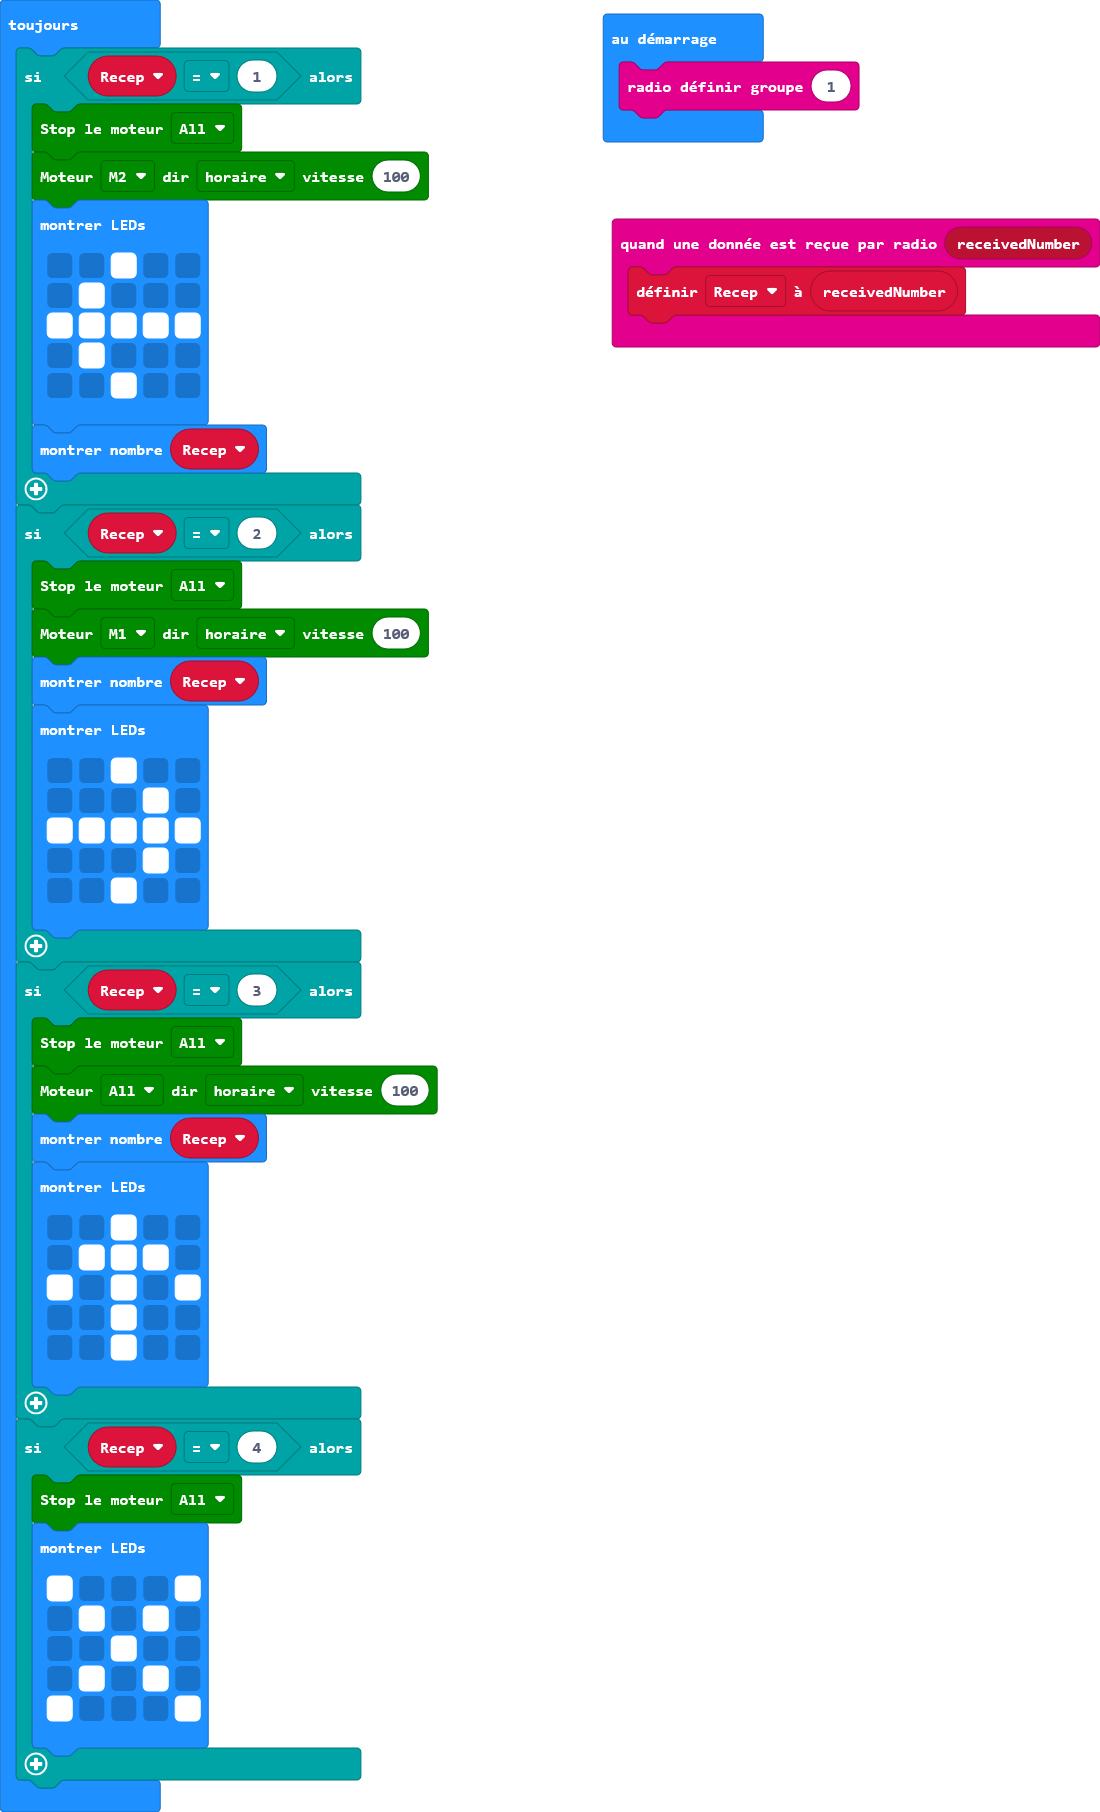
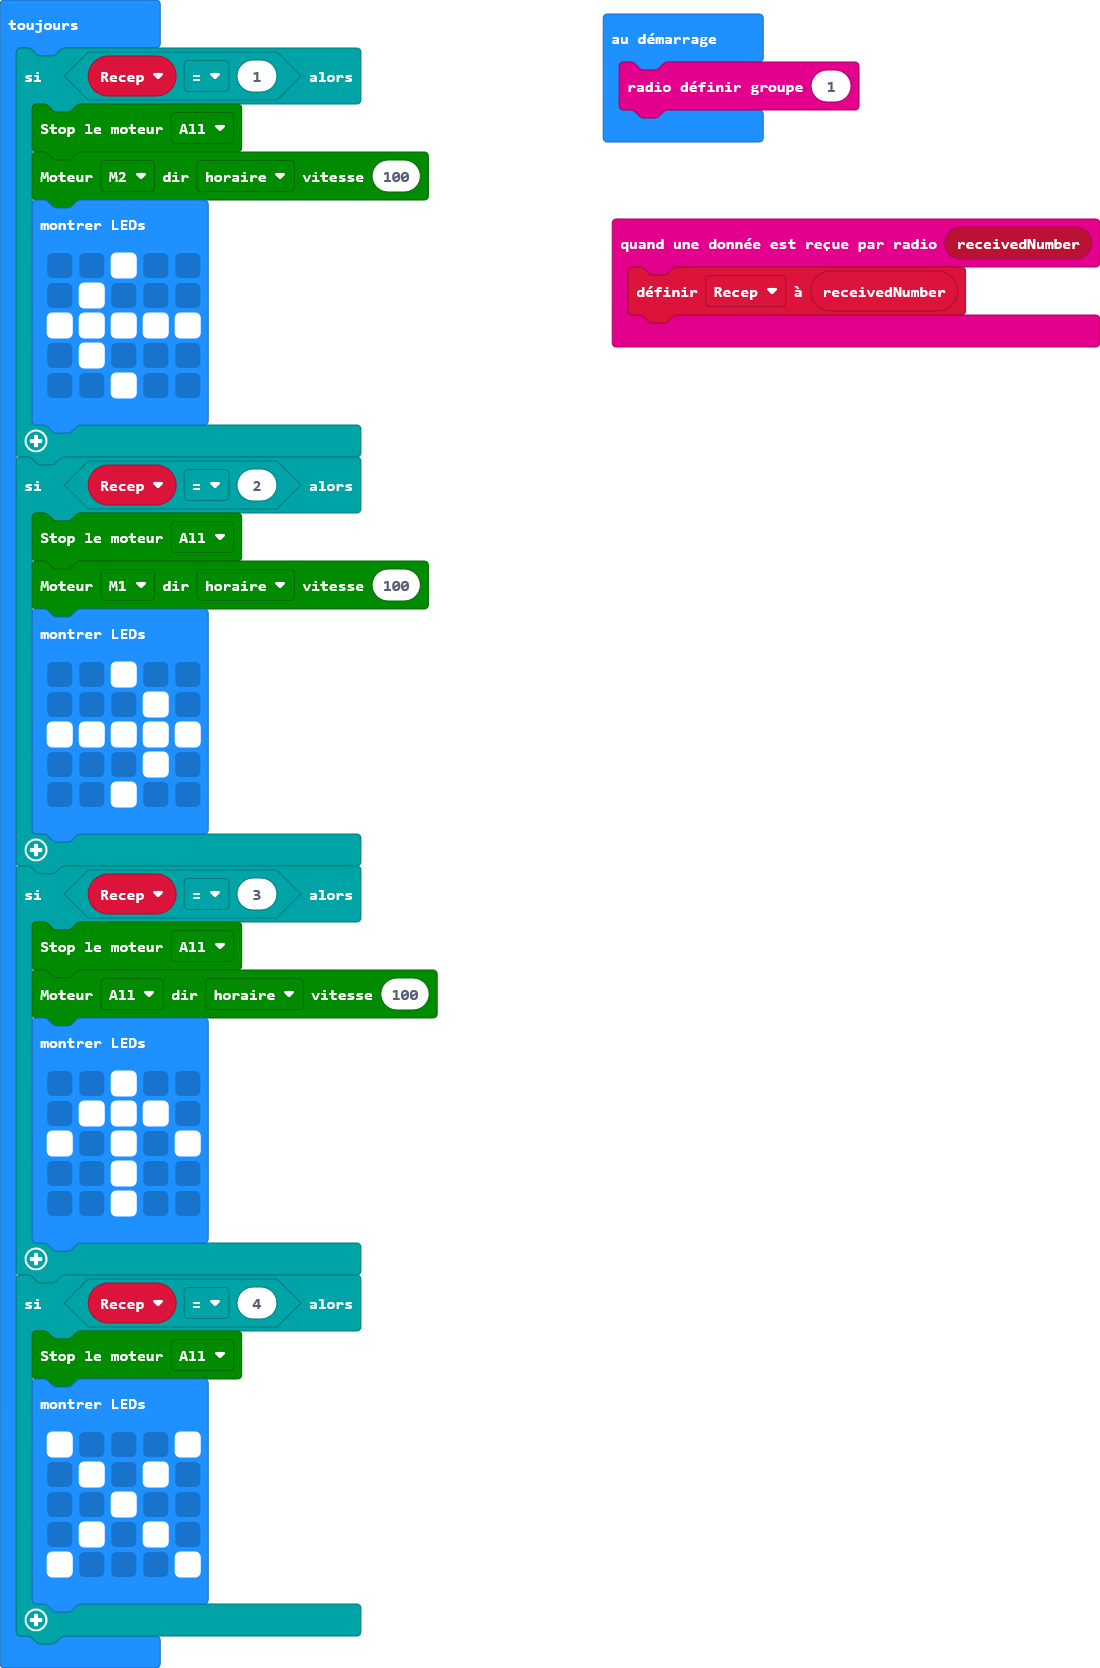
Mise à jour main.blocks, main.ts

Changed region(s): [[0.0, 0.0, 0.4018, 0.9976], [0.5564, 0.0, 1.0, 0.2182]]

diff --git a/main.ts b/main.ts
@@ -14,12 +14,10 @@ basic.forever(function () {
             . # . . .
             . . # . .
             `)
-        basic.showNumber(Recep)
     }
     if (Recep == 2) {
         maqueen.motorStop(maqueen.Motors.All)
         maqueen.motorRun(maqueen.Motors.M1, maqueen.Dir.CW, 100)
-        basic.showNumber(Recep)
         basic.showLeds(`
             . . # . .
             . . . # .
@@ -31,7 +29,6 @@ basic.forever(function () {
     if (Recep == 3) {
         maqueen.motorStop(maqueen.Motors.All)
         maqueen.motorRun(maqueen.Motors.All, maqueen.Dir.CW, 100)
-        basic.showNumber(Recep)
         basic.showLeds(`
             . . # . .
             . # # # .
